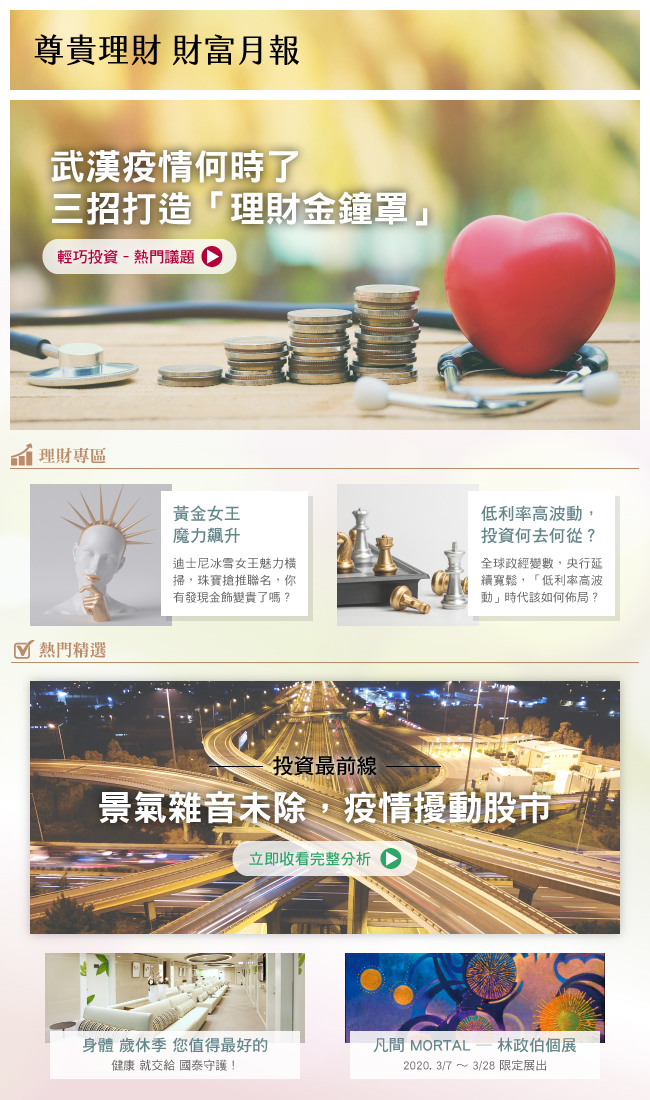
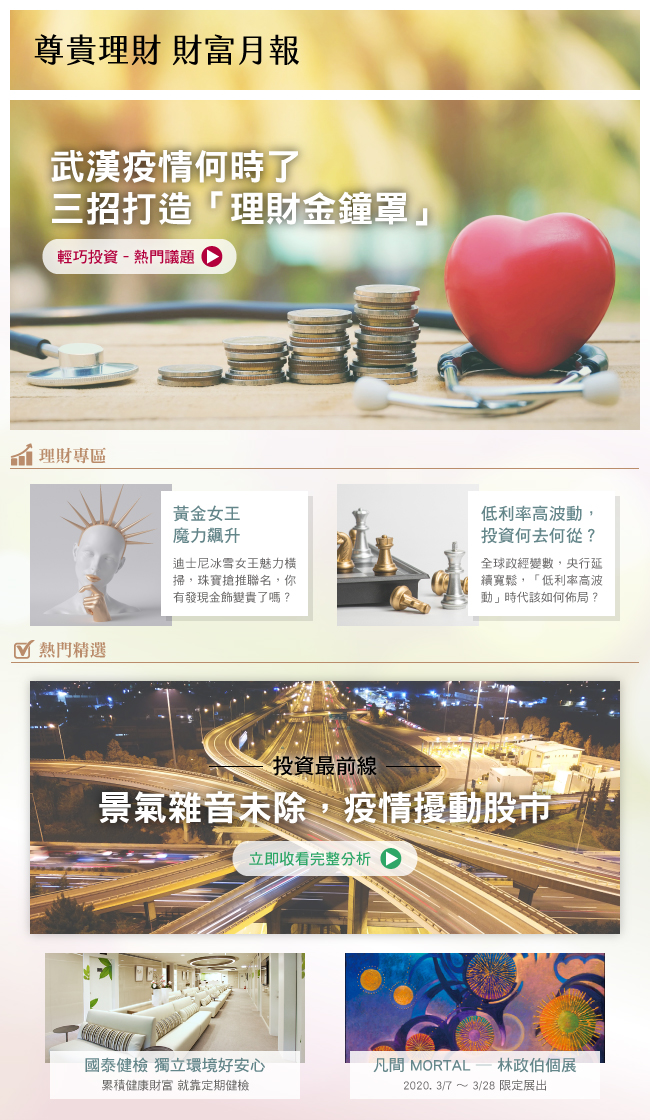
update

diff --git a/monthly-report-202002/index.html b/monthly-report-202002/index.html
@@ -105,12 +105,12 @@
 </table>
 
 <map name="Map">
-  <area shape="rect" coords="10,100,640,429" href="https://www.cathaybk.com.tw/cathaybk/promo/event/fund/cathayfund/article-pages/market/qa126.html?CUB_SRC=EDM&CUB_CHL1=URL&CUB_CHL2=01&MA_TK=WS127&CUB_DT=20200222" target="_blank" alt="武漢疫情何時了？三招打造理財金鐘罩">
-  <area shape="rect" coords="334,483,620,627" href="https://www.cathaybk.com.tw/cathaybk/promo/event/fund/cathayfund/article-pages/market/qa124.html?CUB_SRC=EDM&CUB_CHL1=URL&CUB_CHL2=01&MA_TK=WS127&CUB_DT=20200222" target="_blank" alt="迎接低利率高波動低利環境，投資何去何從？">
-  <area shape="rect" coords="30,483,314,626" href="https://www.cathaybk.com.tw/cathaybk/promo/edm/wealth/product/202002/Wealth01m/index.html?CUB_SRC=EDM&CUB_CHL1=URL&CUB_CHL2=01&MA_TK=WS127&CUB_DT=20200222" target="_blank" alt="黃金女王魔力飆升">
-  <area shape="rect" coords="29,680,621,935" href="https://youtu.be/UC3V3nWZ3Lk?CUB_SRC=EDM&CUB_CHL1=URL&CUB_CHL2=01&MA_TK=WS127&CUB_DT=20200222" target="_blank" alt="--投資最前線--景氣雜音未除，疫情擾動股市">
-  <area shape="rect" coords="45,953,306,1080" href="https://events.cathay-hcm.com.tw/content/20?utm_source=newsletter&utm_medium=email&utm_campaign=202002財富月報-Q1再推廣&utm_content=202002財富月報-Q1再推廣&CUB_SRC=EDM&CUB_CHL1=URL&CUB_CHL2=01&MA_TK=WS127&CUB_DT=20200222" target="_blank" alt="身體 歲休季 您值得最好的">
-  <area shape="rect" coords="344,953,604,1080" href="https://fund.cathaybk.org.tw?CUB_SRC=EDM&CUB_CHL1=URL&CUB_CHL2=01&MA_TK=WS127&CUB_DT=20200222/ " target="_blank" alt="凡間 MORTAL ─ 林政伯個展">
+  <area shape="rect" coords="11,99,642,422" href="https://www.cathaybk.com.tw/cathaybk/promo/event/fund/cathayfund/article-pages/market/qa126.html?CUB_SRC=EDM&CUB_CHL1=URL&CUB_CHL2=01&MA_TK=WS127&CUB_DT=20200222" target="_blank" alt="武漢疫情何時了？三招打造理財金鐘罩">
+  <area shape="rect" coords="335,475,621,619" href="https://www.cathaybk.com.tw/cathaybk/promo/event/fund/cathayfund/article-pages/market/qa124.html?CUB_SRC=EDM&CUB_CHL1=URL&CUB_CHL2=01&MA_TK=WS127&CUB_DT=20200222" target="_blank" alt="迎接低利率高波動低利環境，投資何去何從？">
+  <area shape="rect" coords="30,475,314,618" href="https://www.cathaybk.com.tw/cathaybk/promo/edm/wealth/product/202002/Wealth01m/index.html?CUB_SRC=EDM&CUB_CHL1=URL&CUB_CHL2=01&MA_TK=WS127&CUB_DT=20200222" target="_blank" alt="黃金女王魔力飆升">
+  <area shape="rect" coords="28,667,621,919" href="https://youtu.be/UC3V3nWZ3Lk?CUB_SRC=EDM&CUB_CHL1=URL&CUB_CHL2=01&MA_TK=WS127&CUB_DT=20200222" target="_blank" alt="--投資最前線--景氣雜音未除，疫情擾動股市">
+  <area shape="rect" coords="45,935,306,1080" href="https://events.cathay-hcm.com.tw/content/20?utm_source=newsletter&utm_medium=email&utm_campaign=202002財富月報-Q1再推廣&utm_content=202002財富月報-Q1再推廣&CUB_SRC=EDM&CUB_CHL1=URL&CUB_CHL2=01&MA_TK=WS127&CUB_DT=20200222" target="_blank" alt="國泰健檢 獨立環境好安心">
+  <area shape="rect" coords="345,936,606,1081" href="https://fund.cathaybk.org.tw?CUB_SRC=EDM&CUB_CHL1=URL&CUB_CHL2=01&MA_TK=WS127&CUB_DT=20200222/ " target="_blank" alt="凡間 MORTAL ─ 林政伯個展">
 </map>
 <map name="Map2">
   <area shape="circle" coords="27,24,21" href="https://www.facebook.com/cathayunitedbank?CUB_SRC=EDM&CUB_CHL1=URL&CUB_CHL2=01&MA_TK=WS127&CUB_DT=20200222" target="_blank" alt="國泰世華＊Enrich Your Life＊">
